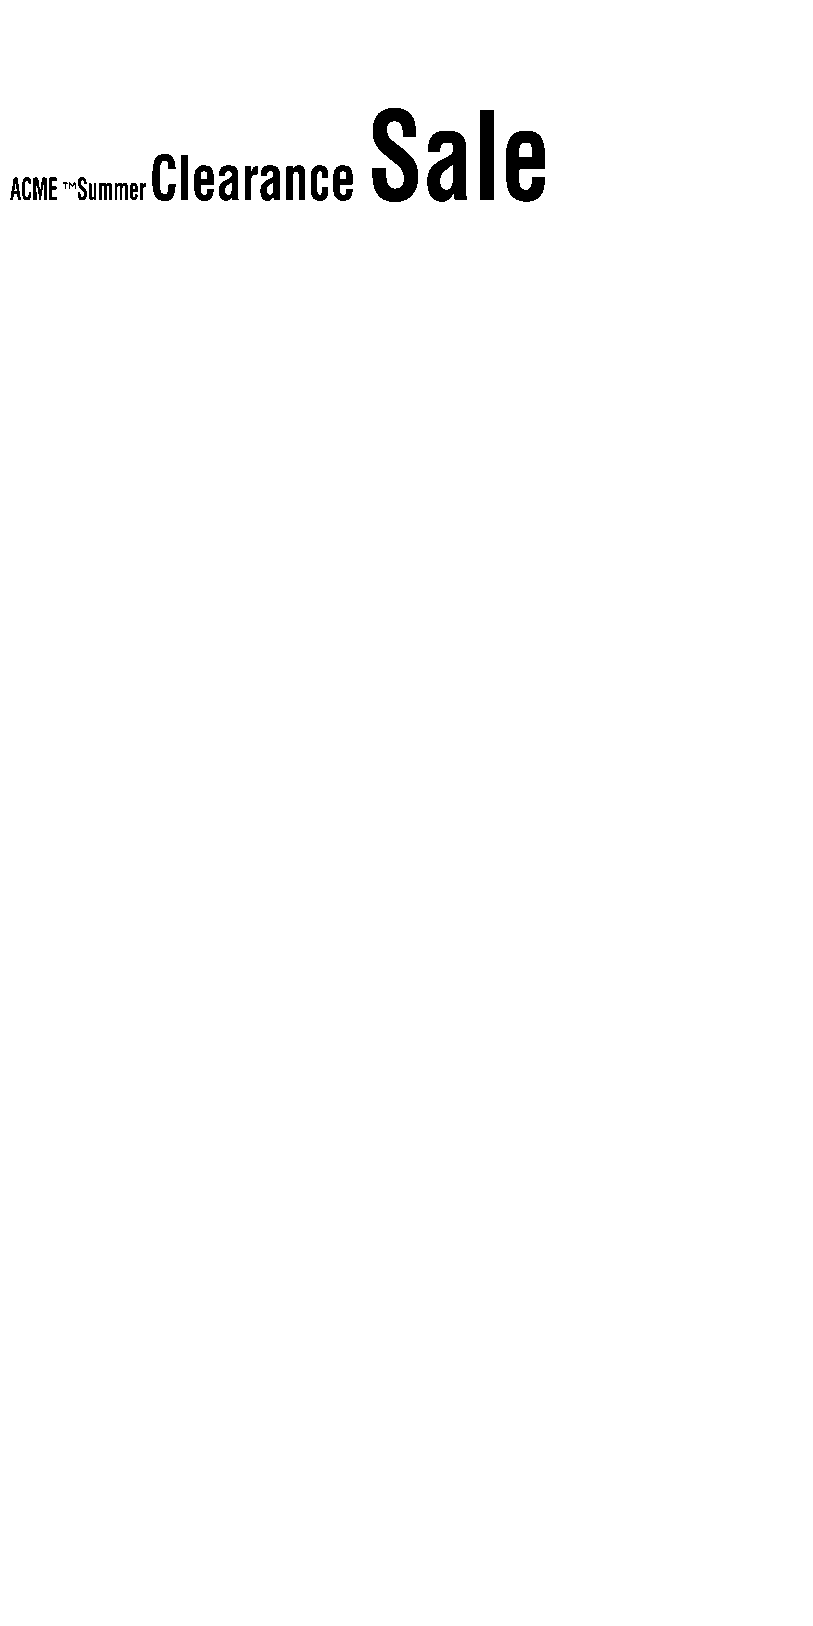
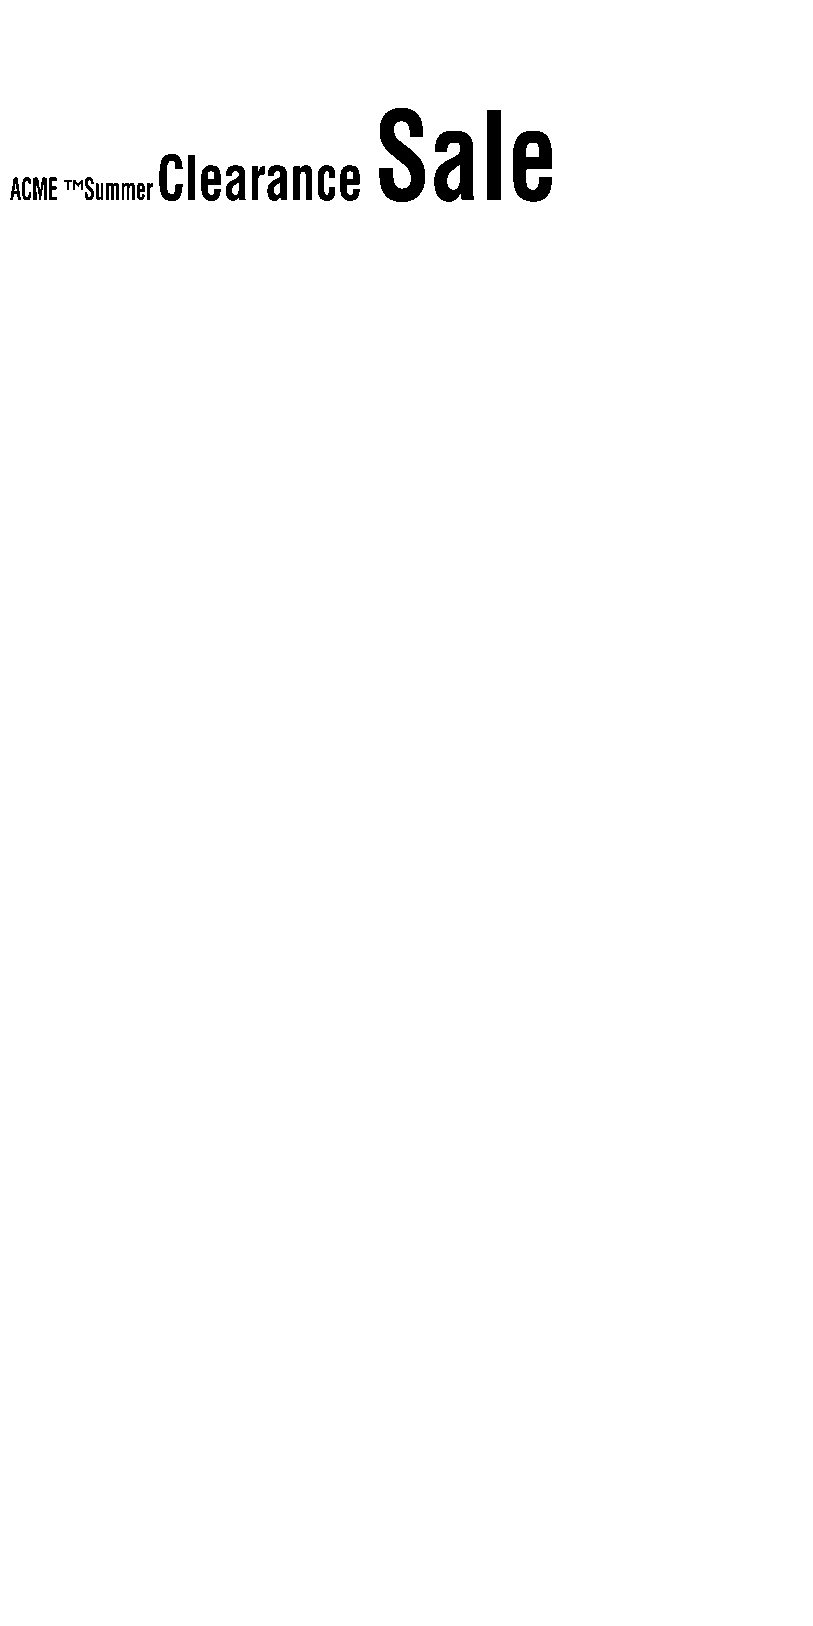
Rework logic for graphic symbol handling

Changed region(s): [[0.0923, 0.0615, 0.6765, 0.123]]

diff --git a/internal/elements/stored_format.go b/internal/elements/stored_format.go
@@ -4,7 +4,7 @@ import (
 	"fmt"
 	"strings"
 
-	"golang.org/x/text/encoding/charmap"
+	"github.com/ingridhq/zebrash/internal/encodings"
 )
 
 type StoredFormat struct {
@@ -188,13 +188,8 @@ func (f *RecalledField) Resolve() (any, error) {
 	return toTextField(text, field, nil)
 }
 
-var graphicSymbols = map[byte]string{
-	'A': "®",
-	'B': "©",
-	'C': "™",
-}
-
-func toGraphicSymbolTextField(text string, field FieldInfo, fe *GraphicSymbol) (*TextField, error) {
+func toGraphicSymbolTextField(text string, field FieldInfo, fe *GraphicSymbol) (any, error) {
+	text = toGSText(text)
 	if text == "" {
 		return nil, nil
 	}
@@ -208,71 +203,47 @@ func toGraphicSymbolTextField(text string, field FieldInfo, fe *GraphicSymbol) (
 		}.WithAdjustedSizes(),
 		Position:     field.Position,
 		Alignment:    field.Alignment,
-		Text:         graphicSymbols[text[0]],
+		Text:         text,
 		ReversePrint: field.ReversePrint,
 	}, nil
 }
 
-func toTextField(text string, field FieldInfo, fe *FieldBlock) (*TextField, error) {
+func toGSText(text string) string {
+	var res strings.Builder
+
+	for _, r := range text {
+		// Keep leading spaces
+		if r == ' ' {
+			res.WriteRune(r)
+			continue
+		}
+
+		if r >= 'A' && r <= 'E' {
+			res.WriteRune(r)
+		}
+
+		// We stop after the first non-space character
+		break
+	}
+
+	return res.String()
+}
+
+func toTextField(text string, field FieldInfo, fe *FieldBlock) (any, error) {
 	// \& = carriage return/line feed
 	text = strings.ReplaceAll(text, `\&`, "\n")
 
-	unicodeText, err := toUnicodeText(text, field)
+	unicodeText, err := encodings.ToUnicodeText(text, field.CurrentCharset)
 	if err != nil {
 		return nil, fmt.Errorf("failed to convert to unicode text: %w", err)
 	}
 
 	return &TextField{
-		Font:         field.Font,
+		Font:         field.Font.WithAdjustedSizes(),
 		Position:     field.Position,
 		Alignment:    field.Alignment,
 		Text:         unicodeText,
 		Block:        fe,
 		ReversePrint: field.ReversePrint,
 	}, nil
-}
-
-// Encodings 0-13 are all in fact CP850 encoding
-// 13 is normal CP850
-// 0-12 have some characters replaced with other characters
-var characterSets013 = [14][11]string{
-	{"#", "0", "@", "[", "¢", "]", "^", "`", "{", "|", "}"},
-	{"#", "0", "@", "⅓", "¢", "⅔", "^", "`", "¼", "½", "¾"},
-	{"£", "0", "@", "[", "¢", "]", "^", "`", "{", "|", "}"},
-	{"ƒ", "0", "§", "[", "IJ", "]", "^", "`", "{", "ij", "}"},
-	{"#", "0", "@", "Æ", "Ø", "Å", "^", "`", "æ", "ø", "å"},
-	{"Ü", "0", "É", "Ä", "Ö", "Å", "Ü", "é", "ä", "ö", "å"},
-	{"#", "0", "§", "Ä", "Ö", "Ü", "^", "`", "ä", "ö", "ü"},
-	{"£", "0", "à", "[", "ç", "]", "^", "`", "é", "|", "ù"},
-	{"#", "0", "à", "â", "ç", "ê", "î", "ô", "é", "ù", "è"},
-	{"£", "0", "§", "[", "ç", "é", "^", "ù", "à", "ò", "è"},
-	{"#", "0", "§", "¡", "Ñ", "¿", "^", "`", "{", "ñ", "ç"},
-	{"£", "0", "É", "Ä", "Ö", "Ü", "^", "ä", "ë", "ï", "ö"},
-	{"#", "0", "@", "[", "¥", "]", "^", "`", "{", "|", "}"},
-	{"#", "0", "@", "[", "\\", "]", "^", "`", "{", "|", "}"},
-}
-
-func toUnicodeText(text string, field FieldInfo) (string, error) {
-	switch {
-	case field.CurrentCharset >= 0 && field.CurrentCharset <= 13:
-		text, err := charmap.CodePage850.NewDecoder().String(text)
-		if err != nil {
-			return "", err
-		}
-
-		if field.CurrentCharset < 13 {
-			search := characterSets013[13]
-			replace := characterSets013[field.CurrentCharset]
-
-			for i, v := range search {
-				text = strings.ReplaceAll(text, v, replace[i])
-			}
-		}
-
-		return text, nil
-	case field.CurrentCharset == 27:
-		return charmap.Windows1252.NewDecoder().String(text)
-	default:
-		return text, nil
-	}
 }

diff --git a/internal/encodings/decode.go b/internal/encodings/decode.go
@@ -1,0 +1,52 @@
+package encodings
+
+import (
+	"strings"
+
+	"golang.org/x/text/encoding/charmap"
+)
+
+// Encodings 0-13 are all in fact CP850 encoding
+// 13 is normal CP850
+// 0-12 have some characters replaced with other characters
+var characterSets013 = [14][11]string{
+	{"#", "0", "@", "[", "¢", "]", "^", "`", "{", "|", "}"},
+	{"#", "0", "@", "⅓", "¢", "⅔", "^", "`", "¼", "½", "¾"},
+	{"£", "0", "@", "[", "¢", "]", "^", "`", "{", "|", "}"},
+	{"ƒ", "0", "§", "[", "IJ", "]", "^", "`", "{", "ij", "}"},
+	{"#", "0", "@", "Æ", "Ø", "Å", "^", "`", "æ", "ø", "å"},
+	{"Ü", "0", "É", "Ä", "Ö", "Å", "Ü", "é", "ä", "ö", "å"},
+	{"#", "0", "§", "Ä", "Ö", "Ü", "^", "`", "ä", "ö", "ü"},
+	{"£", "0", "à", "[", "ç", "]", "^", "`", "é", "|", "ù"},
+	{"#", "0", "à", "â", "ç", "ê", "î", "ô", "é", "ù", "è"},
+	{"£", "0", "§", "[", "ç", "é", "^", "ù", "à", "ò", "è"},
+	{"#", "0", "§", "¡", "Ñ", "¿", "^", "`", "{", "ñ", "ç"},
+	{"£", "0", "É", "Ä", "Ö", "Ü", "^", "ä", "ë", "ï", "ö"},
+	{"#", "0", "@", "[", "¥", "]", "^", "`", "{", "|", "}"},
+	{"#", "0", "@", "[", "\\", "]", "^", "`", "{", "|", "}"},
+}
+
+func ToUnicodeText(text string, charset int) (string, error) {
+	switch {
+	case charset >= 0 && charset <= 13:
+		text, err := charmap.CodePage850.NewDecoder().String(text)
+		if err != nil {
+			return "", err
+		}
+
+		if charset < 13 {
+			search := characterSets013[13]
+			replace := characterSets013[charset]
+
+			for i, v := range search {
+				text = strings.ReplaceAll(text, v, replace[i])
+			}
+		}
+
+		return text, nil
+	case charset == 27:
+		return charmap.Windows1252.NewDecoder().String(text)
+	default:
+		return text, nil
+	}
+}

diff --git a/internal/drawers/text_field.go b/internal/drawers/text_field.go
@@ -12,9 +12,10 @@ import (
 )
 
 var (
-	font0 = mustLoadFont(assets.FontHelveticaBold)
-	font1 = mustLoadFont(assets.FontDejavuSansMono)
-	fontB = mustLoadFont(assets.FontDejavuSansMonoBold)
+	font0  = mustLoadFont(assets.FontHelveticaBold)
+	font1  = mustLoadFont(assets.FontDejavuSansMono)
+	fontB  = mustLoadFont(assets.FontDejavuSansMonoBold)
+	fontGS = mustLoadFont(assets.FontZplGS)
 )
 
 func NewTextFieldDrawer() *ElementDrawer {
@@ -82,6 +83,8 @@ func getTffFont(font elements.FontInfo) *truetype.Font {
 		return font0
 	case "B":
 		return fontB
+	case "GS":
+		return fontGS
 	default:
 		return font1
 	}

diff --git a/internal/parsers/change_font.go b/internal/parsers/change_font.go
@@ -21,7 +21,7 @@ func NewChangeFontParser() *CommandParser {
 				return nil, nil
 			}
 
-			font := elements.FontInfo{
+			font := &elements.FontInfo{
 				Name:        strings.ToUpper(string(parts[0][0])),
 				Orientation: printer.DefaultFont.Orientation,
 			}
@@ -44,8 +44,7 @@ func NewChangeFontParser() *CommandParser {
 				font.Width = float64(v)
 			}
 
-			font = font.WithAdjustedSizes()
-			printer.NextFont = &font
+			printer.NextFont = font
 
 			return nil, nil
 		},

diff --git a/internal/printers/virtual.go b/internal/printers/virtual.go
@@ -33,7 +33,7 @@ func NewVirtualPrinter() *VirtualPrinter {
 		StoredFormats:  make(map[string]*elements.StoredFormat),
 		DefaultFont: elements.FontInfo{
 			Name: "A",
-		}.WithAdjustedSizes(),
+		},
 		DefaultAlignment: elements.FieldAlignmentLeft,
 		DefaultBarcodeDimensions: elements.BarcodeDimensions{
 			ModuleWidth: 2,

diff --git a/parser_test.go b/parser_test.go
@@ -296,6 +296,11 @@ func TestDrawLabelAsPng(t *testing.T) {
 			srcPath: "templating.zpl",
 			dstPath: "templating.png",
 		},
+		{
+			name:    "Graphic symbol",
+			srcPath: "gs.zpl",
+			dstPath: "gs.png",
+		},
 	}
 
 	for _, tC := range testCases {

diff --git a/internal/parsers/change_default_font.go b/internal/parsers/change_default_font.go
@@ -34,7 +34,7 @@ func NewChangeDefaultFontParser() *CommandParser {
 				font.Width = float64(v)
 			}
 
-			printer.DefaultFont = font.WithAdjustedSizes()
+			printer.DefaultFont = font
 
 			return nil, nil
 		},

diff --git a/internal/assets/assets.go b/internal/assets/assets.go
@@ -14,3 +14,6 @@ var FontDejavuSansMono []byte
 
 //go:embed fonts/DejaVuSansMonoBold.ttf
 var FontDejavuSansMonoBold []byte
+
+//go:embed fonts/ZplGSCustom.ttf
+var FontZplGS []byte
